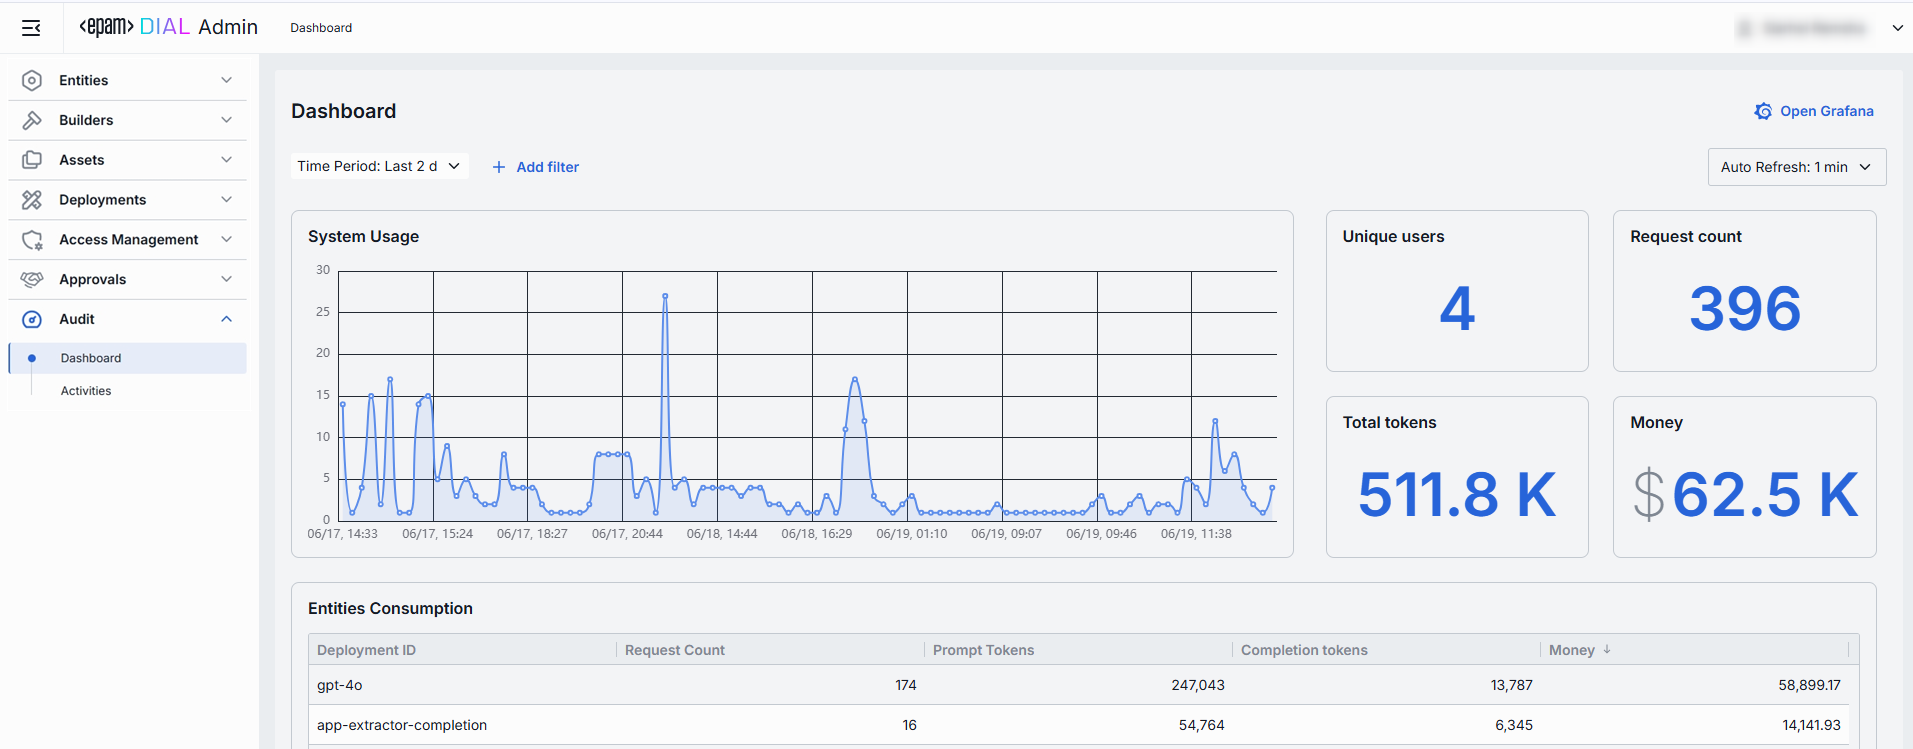
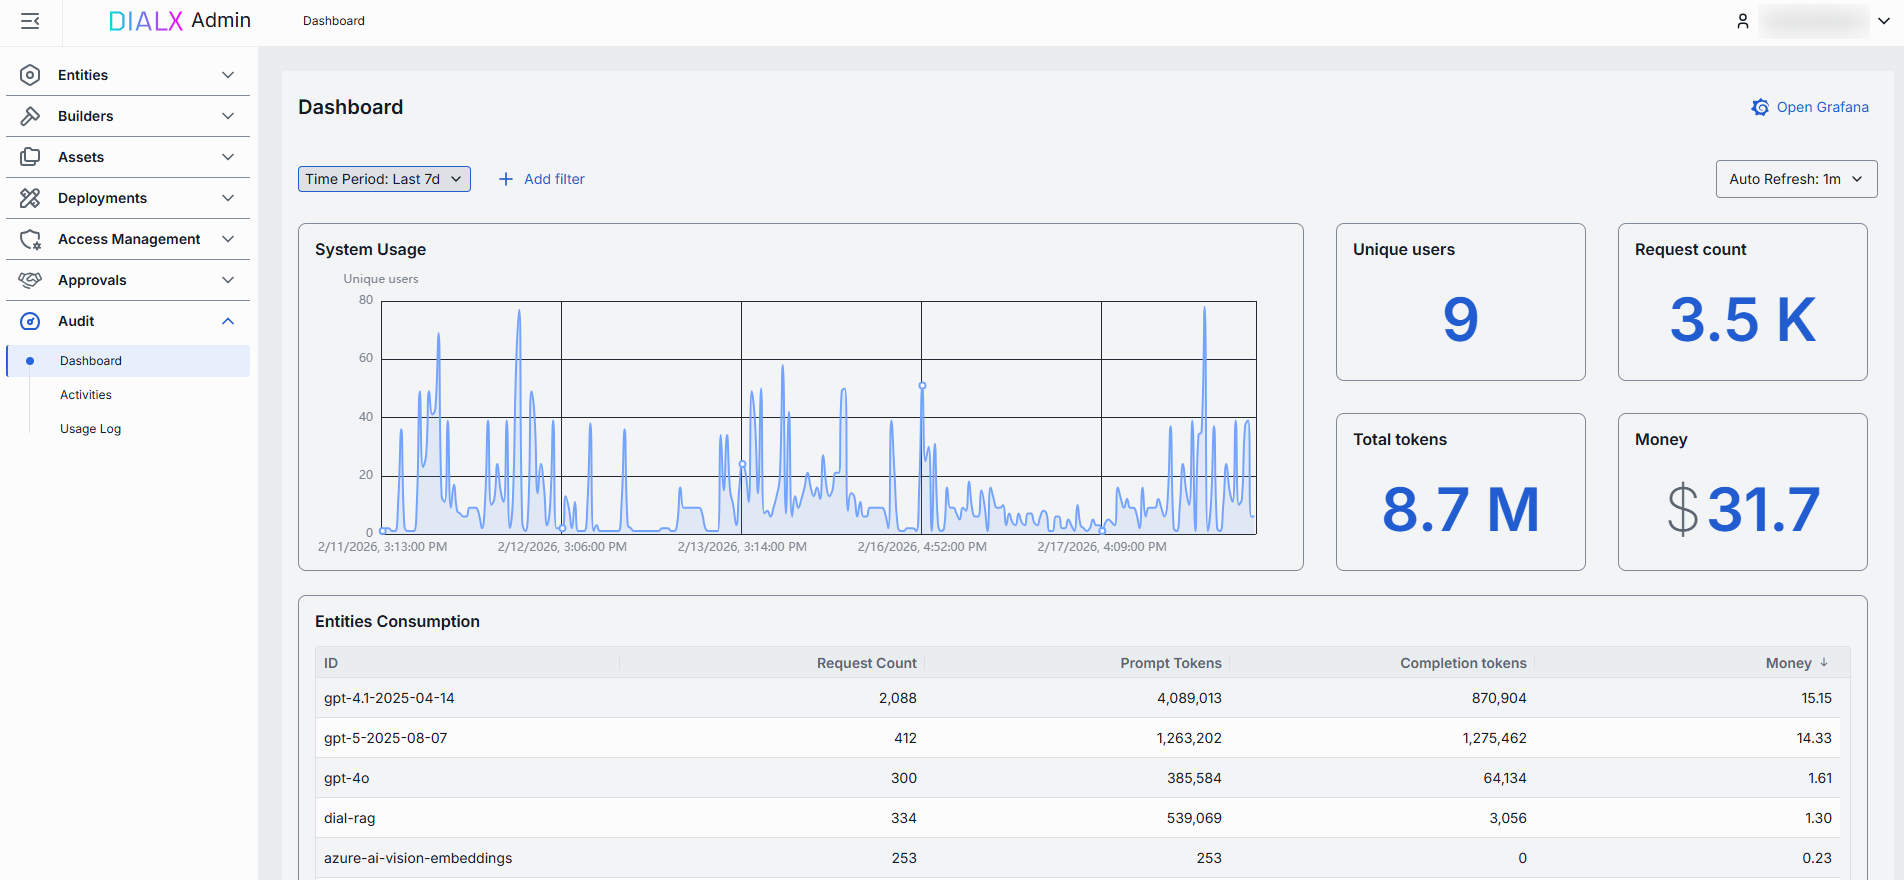
review dashboard

diff --git a/docs/tutorials/3.admin/telemetry-dashboard.md b/docs/tutorials/3.admin/telemetry-dashboard.md
@@ -1,6 +1,6 @@
 # Dashboard
 
-## About Dashboard
+## Introduction
 
 In **Dashboard**, you can monitor system metrics. Monitoring of system metrics is crucial for the health and performance of the system. It helps you to identify and resolve issues before they become critical.
  
@@ -8,13 +8,13 @@ In **Dashboard**, you can monitor system metrics. Monitoring of system metrics i
 
 ![](img/78.png)
 
-##### Top Bar Controls
+##### Controls and filters
 
-| Control                | What It Does                                                                                 |
-| ---------------------- |----------------------------------------------------------------------------------------------|
-| **Time Period**        | Choose the date range for all charts and tables (e.g. last 15 min, 2 days, 7 days, 30 days). |
-| **+ Add filter**       | Drill into specific subsets by adding filters on Projects and Entities (applications, models, routes).                                 |
-| **Auto refresh**       | Set the dashboard to poll for new data (e.g. every 1 min) or turn off auto-refresh.          |
+| Control | Description |
+|---------|-------------|
+| **Time Period** | Date range filters for all charts and tables. |
+| **+ Add filter** | Filter to drill into specific subsets of Projects and Entities. |
+| **Auto refresh** | Control allowing to pull new data (e.g. every 1 min) or turn off auto-refresh. |
 
 ## System Usage Chart
 
@@ -26,39 +26,42 @@ System Usage is a time-series line chart showing the requests throughput over th
 
 Metrics are displayed alongside the System Usage Chart. Metrics are calculated for the selected time period for the entire system.
 
-| Metric            | Definition                                                          |
-|-------------------|---------------------------------------------------------------------|
-| **Unique Users**  | Count of distinct user IDs or API keys. |
-| **Request Count** | The total number of chat or embedding calls.       |
-| **Total Tokens**  | The total sum of prompt and completion tokens used.           |
-| **Money**         | The estimated spending amount.                                   |
+| Metric | Description |
+|--------|-------------|
+| **Unique Users** | Count of distinct user IDs or API keys. |
+| **Request Count** | Total number of chat or embedding calls. |
+| **Total Tokens** | Total sum of prompt and completion tokens used. |
+| **Money** | Estimated spending amount in USD. |
 
 ![](img/80.png)
 
 ## Entities Consumption
 
-This table shows the consumption metrics for deployments: models and applications. You can use it to compare the tokens usage of different models and applications, identify cost-inefficient deployments, and optimize your resources.
+Use Entities Consumption table to monitor consumption metrics for deployments: models, applications, toolsets, interceptors and routes. You can use it to compare the tokens usage of different entities, identify cost-inefficient deployments, and optimize your resources.
 
-| Column                | Description                                               |
-|-----------------------|-----------------------------------------------------------|
-| **Deployment Id**     | A unique identifier of a model or application.            |
-| **Request Count**     | The number of calls directed to the entity.                   |
-| **Prompt tokens**     | The total number of tokens submitted in the prompt portion of requests. |
-| **Completion tokens** |The total number of tokens returned by the model/application as responses.          |
-| **Money**             | Estimated overall costs.                                           |
+| Column | Description |
+|--------|-------------|
+| **ID** | Unique identifier of an entity. |
+| **Request Count** | Number of calls directed to the entity. |
+| **Prompt tokens** | Total number of tokens submitted in the prompt portion of requests. |
+| **Completion tokens** | Total number of tokens returned by the model/application as responses. |
+| **Money** | Estimated overall costs in USD. |
 
+![](img/audit-entities-consumption.png)
 
 ## Projects Consumption
 
-This table shows the consumption metrics for projects. You can use it to compare the tokens usage of different projects, identify cost-inefficient projects, and optimize your resources.
+Use Projects Consumption table to monitor consumption metrics for projects. You can use it to compare the tokens usage of different projects, identify cost-inefficient projects, and optimize your resources.
 
-| Column                | Description                                               |
-|-----------------------|-----------------------------------------------------------|
-| **Project**           | The entity utilizing this model/application.                          |
-| **Request Count**     | Number of calls directed to the model/application.                    |
-| **Prompt tokens**     | Total tokens submitted in the prompt portion of requests. |
-| **Completion tokens** | Total tokens returned by the model/application in the responses.          |
-| **Money**             | Estimated overall costs.                                           |
+| Column | Description |
+|--------|-------------|
+| **Project** | Project name. |
+| **Request Count** | Number of calls directed to the model/application. |
+| **Prompt tokens** | Total tokens submitted in the prompt portion of requests. |
+| **Completion tokens** | Total tokens returned by the model/application in the responses. |
+| **Money** | Estimated overall costs in USD. |
+
+![](img/audit-projects-consumption.png)
 
 ## Grafana
 
